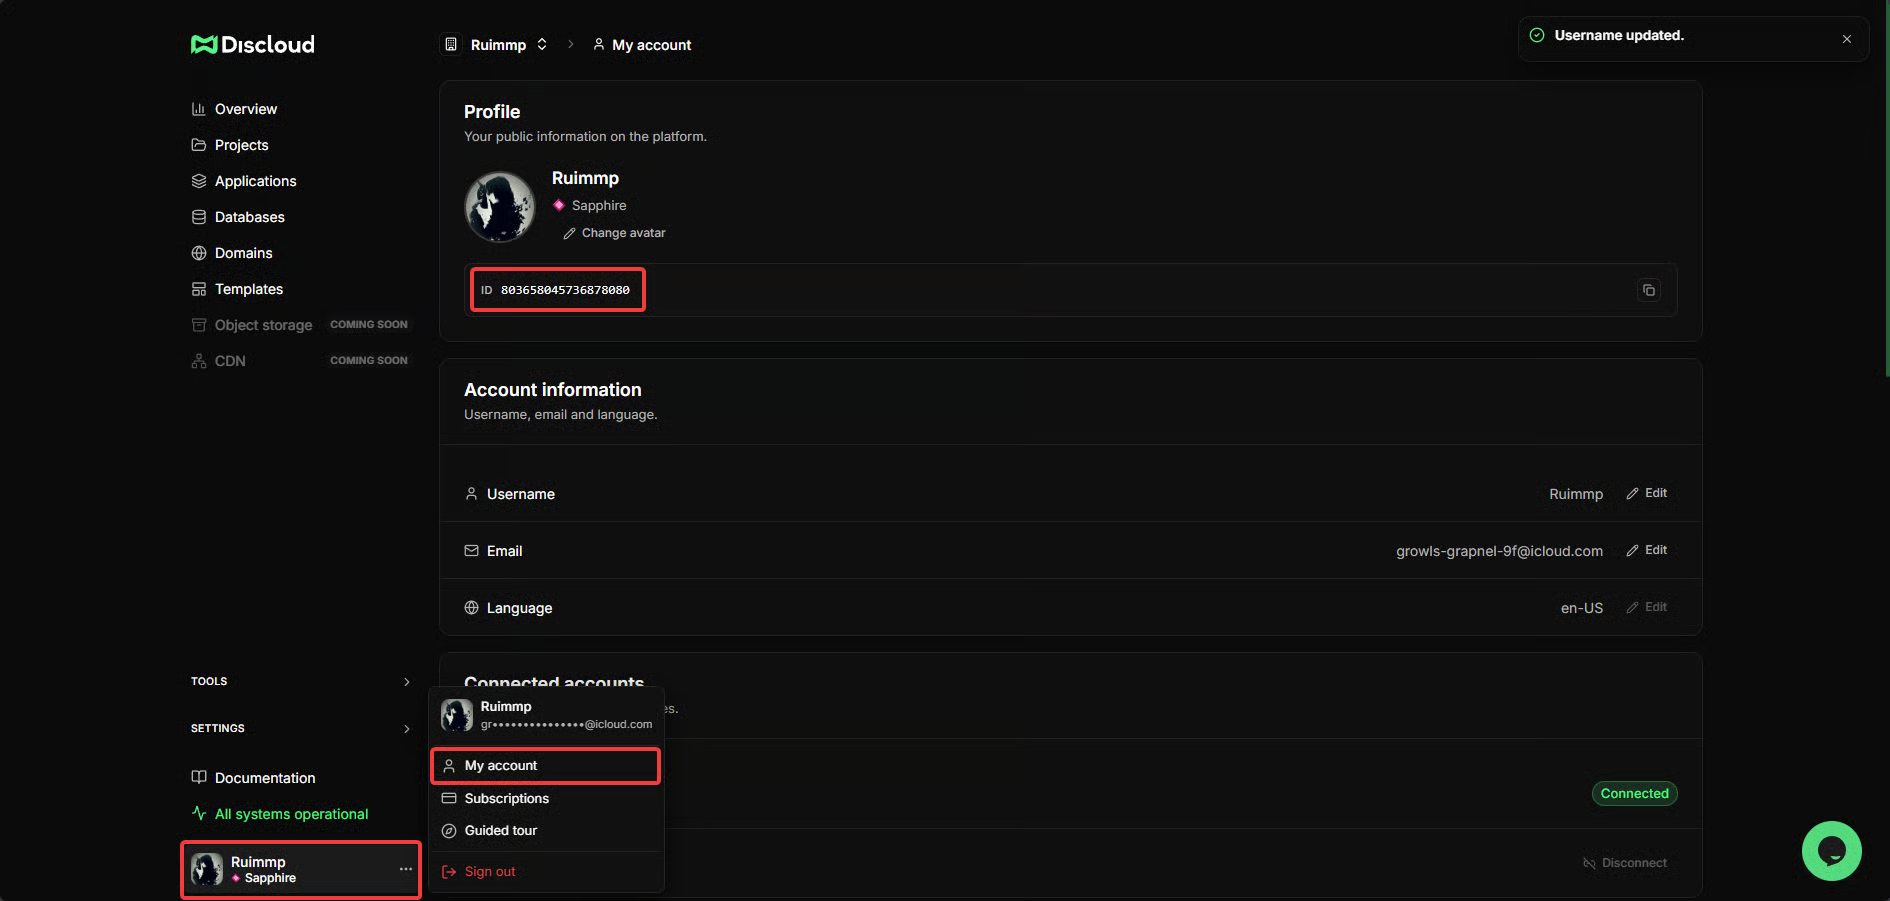
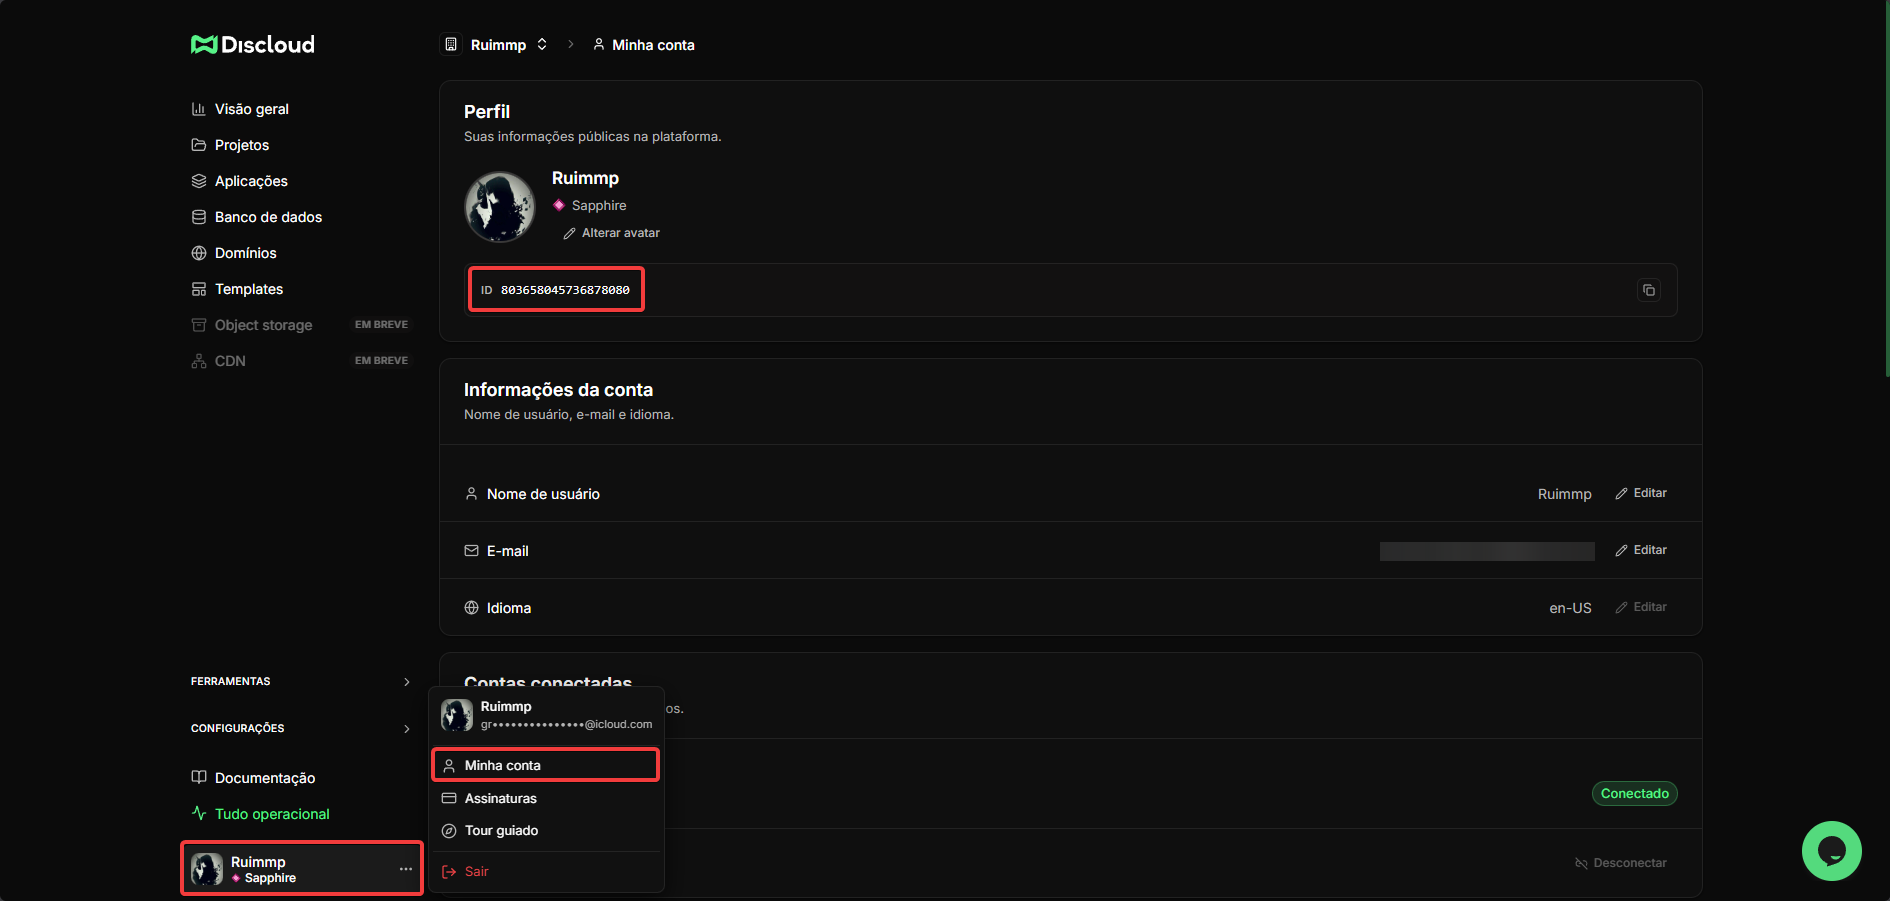
GITBOOK-191: .

diff --git a/faq/general-questions/what-is-the-root-of-the-project.md b/faq/general-questions/what-is-the-root-of-the-project.md
@@ -8,7 +8,7 @@ description: >-
 
 ## 🧾 Visão Geral
 
-A raiz do projeto ("diretório raiz") é a **pasta de nível superior da sua aplicação,** o lugar que você comprime e envia para a Discloud. Ela contém o arquivo de configuração ([`discloud.config`](../../configurations/discloud.config/)), manifesto de dependências (ex. [`package.json`](../../development-environment/supported-languages/javascript/package.json.md), [`requirements.txt`](../../development-environment/supported-languages/python/requirements.txt.md), [`Cargo.toml`](../../development-environment/supported-languages/rust/cargo.toml.md), [`Gemfile`](../../development-environment/supported-languages/ruby/gemfile.md)), opcional [`.env`](.env-file.md), e as pastas com seu código fonte (ex. `src/`).
+A raiz do projeto ("diretório raiz") é a **pasta de nível superior da sua aplicação,** o lugar que você comprime e envia para a Discloud. Ela contém o arquivo de configuração ([`discloud.config`](https://github.com/discloud/docs/blob/portuguese/configurations/discloud.config)), manifesto de dependências (ex. [`package.json`](../../development-environment/supported-languages/javascript/package.json.md), [`requirements.txt`](../../development-environment/supported-languages/python/requirements.txt.md), [`Cargo.toml`](../../development-environment/supported-languages/rust/cargo.toml.md), [`Gemfile`](../../development-environment/supported-languages/ruby/gemfile.md)), opcional [`.env`](.env-file.md), e as pastas com seu código fonte (ex. `src/`).
 
 Se a estrutura estiver errada (por exemplo, você zipa uma pasta que contém outra pasta única que realmente contém os arquivos), a Discloud pode falhar em detectar o arquivo principal ou dependências.
 
@@ -24,9 +24,9 @@ A zona verde representa a **raiz** que você deve comprimir. Amarelo mostra uma 
 
 ### 🚫 Erros Comuns
 
-| Erro                                            | Resultado                                 | Correção                                                                                           |
-| ----------------------------------------------- | ----------------------------------------- | -------------------------------------------------------------------------------------------------- |
-| Compactar a pasta principal em vez da raiz real | Configuração / arquivo principal ausente  | Compacte diretamente a pasta que contém [`discloud.config`](../../configurations/discloud.config/) |
-| Incluir `node_modules`                          | Upload grande; possíveis erros de tamanho | Remova; deixe a Discloud instalar                                                                  |
-| Tokens hardcoded no código                      | Exposição de dados sensíveis              | Use [`.env`](.env-file.md) e variáveis de ambiente                                                 |
-| Múltiplos arquivos de entrada ambíguos          | Falha na inicialização                    | Defina `MAIN` em [`discloud.config`](../../configurations/discloud.config/) explicitamente         |
+| Erro                                            | Resultado                                 | Correção                                                                                                                                     |
+| ----------------------------------------------- | ----------------------------------------- | -------------------------------------------------------------------------------------------------------------------------------------------- |
+| Compactar a pasta principal em vez da raiz real | Configuração / arquivo principal ausente  | Compacte diretamente a pasta que contém [`discloud.config`](https://github.com/discloud/docs/blob/portuguese/configurations/discloud.config) |
+| Incluir `node_modules`                          | Upload grande; possíveis erros de tamanho | Remova; deixe a Discloud instalar                                                                                                            |
+| Tokens hardcoded no código                      | Exposição de dados sensíveis              | Use [`.env`](.env-file.md) e variáveis de ambiente                                                                                           |
+| Múltiplos arquivos de entrada ambíguos          | Falha na inicialização                    | Defina `MAIN` em [`discloud.config`](https://github.com/discloud/docs/blob/portuguese/configurations/discloud.config) explicitamente         |

diff --git a/faq/general-questions/what-is-the-main-file.md b/faq/general-questions/what-is-the-main-file.md
@@ -2,27 +2,27 @@
 description: Saiba o que é o arquivo principal e como identificá-lo em seu projeto.
 ---
 
-# O que é o arquivo principal?
+# Qual é o arquivo principal?
 
 ## 📂 Arquivos Principais Gerais
 
 O **arquivo principal** (main file) é o código fundamental da sua aplicação. É o ponto de entrada que faz seu bot ficar online ou seu site começar a funcionar. Dependendo da linguagem e de como você o nomeou, exemplos comuns incluem:
 
-- `index.js`
-- `bot.js`
-- `main.py`
-- `index.py`
-- `app.js`
+* `index.js`
+* `bot.js`
+* `main.py`
+* `index.py`
+* `app.js`
 
----
+***
 
 ## ⚠ Exceções (Padrões)
 
 Alguns softwares de criação de bots, como o **Discord Bot Maker (DBM)** e o **Discord Bot Controls**, já possuem um arquivo principal padrão configurado, que geralmente é:
 
-- `bot.js`
+* `bot.js`
 
----
+***
 
 ## 🔍 Como eu sei qual é o meu arquivo principal?
 
@@ -32,8 +32,8 @@ O arquivo principal é aquele que você usa para iniciar sua aplicação localme
 {% tab title="JavaScript" %}
 O arquivo principal é o que você usa para iniciar seu bot:
 
-- Ao executar o comando `node ArquivoPrincipal.js`.
-- Geralmente é definido no seu `package.json` sob o campo `"main"`.
+* Ao executar o comando `node ArquivoPrincipal.js`.
+* Geralmente é definido no seu `package.json` sob o campo `"main"`.
 
 ```json
 {
@@ -45,53 +45,52 @@ O arquivo principal é o que você usa para iniciar seu bot:
   }
 }
 ```
-
 {% endtab %}
 
 {% tab title="Python" %}
 O arquivo principal é o que você usa para iniciar seu bot:
 
-- Ao executar o comando `python ArquivoPrincipal.py`.
-- Clicando com o botão direito no arquivo e selecionando **RUN** no PyCharm ou VS Code.
-  {% endtab %}
+* Ao executar o comando `python ArquivoPrincipal.py`.
+* Clicando com o botão direito no arquivo e selecionando **RUN** no PyCharm ou VS Code.
+{% endtab %}
 
 {% tab title="Java" %}
 O arquivo principal é o que você usa para iniciar seu bot:
 
-- Ao executar o comando `java -jar ArquivoPrincipal.jar`.
-- Clicando duas vezes no arquivo `.jar`.
-  {% endtab %}
+* Ao executar o comando `java -jar ArquivoPrincipal.jar`.
+* Clicando duas vezes no arquivo `.jar`.
+{% endtab %}
 
 {% tab title="Ruby" %}
 O arquivo principal é o que você usa para iniciar seu bot:
 
-- Ao executar o comando `ruby ArquivoPrincipal.rb`.
-  {% endtab %}
+* Ao executar o comando `ruby ArquivoPrincipal.rb`.
+{% endtab %}
 
 {% tab title="Go" %}
 O arquivo principal é o que você usa para iniciar seu bot:
 
-- Ao executar o comando `go run ArquivoPrincipal.go`.
-  {% endtab %}
+* Ao executar o comando `go run ArquivoPrincipal.go`.
+{% endtab %}
 
 {% tab title="PHP" %}
 O arquivo principal é o que você usa para iniciar seu bot:
 
-- Ao executar o comando `php ArquivoPrincipal.php`.
-  {% endtab %}
+* Ao executar o comando `php ArquivoPrincipal.php`.
+{% endtab %}
 
 {% tab title="Rust" %}
 Em projetos Rust, o arquivo principal geralmente está localizado em:
 
-- `src/main.rs`
-  {% endtab %}
-  {% endtabs %}
+* `src/main.rs`
+{% endtab %}
+{% endtabs %}
 
----
+***
 
 ## 🛠 Definindo na Discloud
 
-Depois de identificar seu arquivo principal, você deve especificá-lo em seu arquivo [**`discloud.config`**](../../configurations/discloud.config/) usando a propriedade `MAIN`.
+Depois de identificar seu arquivo principal, você deve especificá-lo em seu arquivo [**`discloud.config`**](https://github.com/discloud/docs/blob/portuguese/configurations/discloud.config) usando a propriedade `MAIN`.
 
 ```ini
 MAIN=index.js

diff --git a/how-to-host-using/discord-bot.md b/how-to-host-using/discord-bot.md
@@ -41,7 +41,7 @@ Depois da verificação, terá acesso ao canal [**`#🔌・commands`**](https://
 
 Há **duas maneiras** de fazer o upload de uma aplicação usando o Bot da Discloud:
 
-<table><thead><tr><th width="212">Método</th><th>Melhor Para</th><th>Como Funciona</th></tr></thead><tbody><tr><td><a href="discord-bot.md#configuracao-avancada"><strong>⚙ Configuração Avançada</strong></a></td><td>Usuários que querem uma <strong>upload de um comando</strong> com configurações pré-definidas.</td><td>Configure tudo no arquivo <a href="../configurations/discloud.config/"><code>discloud.config</code></a> e use <code>.upconfig</code>.</td></tr><tr><td><a href="discord-bot.md#configuracao-rapida-guia-passo-a-passo"><strong>⚡ Configuração Rápida (legado)</strong></a></td><td>Usuários que <strong>preferem uma configuração guiada</strong> através dos prompts do bot.</td><td>O bot perguntará os detalhes necessários após executar <code>.up</code>.</td></tr></tbody></table>
+<table><thead><tr><th width="212">Método</th><th>Melhor Para</th><th>Como Funciona</th></tr></thead><tbody><tr><td><a href="discord-bot.md#configuracao-avancada"><strong>⚙ Configuração Avançada</strong></a></td><td>Usuários que querem uma <strong>upload de um comando</strong> com configurações pré-definidas.</td><td>Configure tudo no arquivo <a href="https://github.com/discloud/docs/blob/portuguese/configurations/discloud.config"><code>discloud.config</code></a> e use <code>.upconfig</code>.</td></tr><tr><td><a href="discord-bot.md#configuracao-rapida-guia-passo-a-passo"><strong>⚡ Configuração Rápida (legado)</strong></a></td><td>Usuários que <strong>preferem uma configuração guiada</strong> através dos prompts do bot.</td><td>O bot perguntará os detalhes necessários após executar <code>.up</code>.</td></tr></tbody></table>
 
 {% hint style="warning" %}
 #### **Notas Importantes**
@@ -54,7 +54,7 @@ Há **duas maneiras** de fazer o upload de uma aplicação usando o Bot da Discl
 {% tab title="📝 Configuração Avançada" %}
 {% stepper %}
 {% step %}
-Crie o arquivo [`discloud.config`](../configurations/discloud.config/).
+Crie o arquivo [`discloud.config`](https://github.com/discloud/docs/blob/portuguese/configurations/discloud.config).
 {% endstep %}
 
 {% step %}

diff --git a/how-to-host-using/cli.md b/how-to-host-using/cli.md
@@ -122,7 +122,7 @@ Uma vez instalada e configurada, você pode **fazer o upload da sua aplicação*
 Preparando seu projeto.
 
 * Certifique-se de que seu projeto contenha todos os arquivos necessários:
-  * [**`discloud.config`**](../configurations/discloud.config/) (arquivo de configuração).
+  * [**`discloud.config`**](https://github.com/discloud/docs/blob/portuguese/configurations/discloud.config) (arquivo de configuração).
   * **Dependências necessárias** para sua linguagem de programação (ex.: [`package.json`](../development-environment/supported-languages/javascript/package.json.md) para [Node.js](../development-environment/local-environment/nodejs.md), [`requirements.txt`](../development-environment/supported-languages/python/requirements.txt.md) para [Python](../development-environment/local-environment/python.md)).
 * **Verifique o** [**Guia de Linguagens**](../development-environment/supported-languages/) para garantir que seu projeto esteja estruturado corretamente.
 {% endstep %}
@@ -162,7 +162,7 @@ discloud init
 ```
 
 * Este comando solicita que você insira **detalhes básicos de configuração** (ex.: nome, arquivo principal, RAM, etc.).
-* Em seguida, **gera o arquivo** [**`discloud.config`**](../configurations/discloud.config/) **para você**, facilitando o upload.
+* Em seguida, **gera o arquivo** [**`discloud.config`**](https://github.com/discloud/docs/blob/portuguese/configurations/discloud.config) **para você**, facilitando o upload.
 
 ### 📂 **Usando `.discloudignore` para Excluir Arquivos**
 

diff --git a/how-to-host/frameworks/README.md b/how-to-host/frameworks/README.md
@@ -39,7 +39,7 @@ Não importa qual framework você use:
 
 * **Porta 8080** – Seu app escuta aqui. É assim que o tráfego é roteado.
 * **Subdomínio** – [Crie um seguindo este guia](../../faq/general-questions/how-to-create-a-subdomain.md).
-* **`discloud.config`** – Fica na raiz do projeto. [Veja o guia de config](../../configurations/discloud.config/).
+* **`discloud.config`** – Fica na raiz do projeto. [Veja o guia de config](https://github.com/discloud/docs/blob/portuguese/configurations/discloud.config).
 * **Arquivo de dependências** – `package.json`, `requirements.txt`, o que seu framework usar.
 
 ***
@@ -47,6 +47,6 @@ Não importa qual framework você use:
 ## 🔗 Links úteis
 
 * 📖 [Ambiente de desenvolvimento](../../development-environment/supported-languages/) – Configure Node, Python, etc. localmente
-* ⚙ [discloud.config](../../configurations/discloud.config/) – Todas as opções de config
+* ⚙ [discloud.config](https://github.com/discloud/docs/blob/portuguese/configurations/discloud.config) – Todas as opções de config
 * 🚀 [Como fazer deploy](../../how-to-host-using/dashboard.md) – Dashboard, Bot, CLI ou VSCode
 * 🌐 [Domínios customizados](../../api-and-integrations/custom-domain.md) – Use seu próprio domínio

diff --git a/faq/general-questions/how-can-i-get-my-discord-bot-id.md b/faq/general-questions/how-can-i-get-my-discord-bot-id.md
@@ -46,4 +46,4 @@ O **ID da Aplicação** é uma **informação pública**, não há problema em c
 
 Este ID é especificamente necessário ao usar o método de **Configuração Rápida** através do [Bot da Discloud](../../how-to-host-using/discord-bot.md#configuracao-rapida-guia-passo-a-passo), durante o fluxo guiado, o bot solicitará que você insira o ID da Aplicação.
 
-Se você estiver usando a **Configuração Avançada** (com um arquivo [`discloud.config`](../../configurations/discloud.config/)), não precisa fornecer este ID, a Discloud lida com a configuração automaticamente.
+Se você estiver usando a **Configuração Avançada** (com um arquivo [`discloud.config`](https://github.com/discloud/docs/blob/portuguese/configurations/discloud.config)), não precisa fornecer este ID, a Discloud lida com a configuração automaticamente.

diff --git a/development-environment/supported-languages/javascript/README.md b/development-environment/supported-languages/javascript/README.md
@@ -29,7 +29,7 @@ Certifique-se de que os seguintes arquivos e diretórios **não** sejam incluíd
 <summary>📦 Sobre a pasta dist (apenas TYPE=site)</summary>
 
 {% hint style="info" %}
-Para apps `TYPE=site`, **`dist/` é reservada** para a saída do `BUILD`. Se você define `BUILD=...` no [`discloud.config`](../../../configurations/discloud.config), nós geramos a pasta `dist/` pra você. **Não compacte `dist/`** ou envie arquivos para lá.
+Para apps `TYPE=site`, **`dist/` é reservada** para a saída do `BUILD`. Se você define `BUILD=...` no [`discloud.config`](https://github.com/discloud/docs/blob/portuguese/configurations/discloud.config), nós geramos a pasta `dist/` pra você. **Não compacte `dist/`** ou envie arquivos para lá.
 {% endhint %}
 
 **⚙ Build automático**

diff --git a/configurations/puppeteer.md b/configurations/puppeteer.md
@@ -20,7 +20,7 @@ Para usar **Puppeteer** na Discloud, é recomendado um mínimo de **512 MB de RA
 
 ## 📦 **Adicionando Puppeteer**
 
-O Puppeteer requer dependências adicionais do sistema. Você deve adicionar **`puppeteer`** ao campo [`APT`](discloud.config/apt.md) no seu arquivo [**`discloud.config`**](discloud.config/).
+O Puppeteer requer dependências adicionais do sistema. Você deve adicionar **`puppeteer`** ao campo [`APT`](discloud.config/apt.md) no seu arquivo [**`discloud.config`**](https://github.com/discloud/docs/blob/portuguese/configurations/discloud.config).
 
 <pre class="language-ini" data-title="discloud.config"><code class="lang-ini"><a data-footnote-ref href="#user-content-fn-1"># ...</a>
 APT=tools, puppeteer

diff --git a/how-to-host-using/visual-studio-code.md b/how-to-host-using/visual-studio-code.md
@@ -56,7 +56,7 @@ Com a **Extensão VSCode**, você pode fazer o upload do seu app em apenas algun
 Preparando seu projeto.
 
 * Certifique-se de que seu projeto contenha todos os arquivos necessários:
-  * [**`discloud.config`**](../configurations/discloud.config/) (arquivo de configuração).
+  * [**`discloud.config`**](https://github.com/discloud/docs/blob/portuguese/configurations/discloud.config) (arquivo de configuração).
   * **Dependências** necessárias para sua linguagem de programação (ex.: `package.json` para Node.js, `requirements.txt` para Python).
 * **Verifique o** [**Guia de Linguagens**](../development-environment/supported-languages/) para garantir que seu projeto esteja estruturado corretamente.
 {% endstep %}

diff --git a/development-environment/supported-languages/rust/cargo.toml.md b/development-environment/supported-languages/rust/cargo.toml.md
@@ -115,7 +115,7 @@ Requer toolchain nightly + bind na porta 8080.
 {% endtabs %}
 
 {% hint style="info" %}
-Precisa de dependências no nível do SO (ex.: `openssl`, `ffmpeg`)? Adicione-as sob `APT=` no [`discloud.config`](../../../configurations/discloud.config/). Veja [a lista de pacotes APT](../../../configurations/discloud.config/apt.md) para sintaxe e exemplos.
+Precisa de dependências no nível do SO (ex.: `openssl`, `ffmpeg`)? Adicione-as sob `APT=` no [`discloud.config`](https://github.com/discloud/docs/blob/portuguese/configurations/discloud.config). Veja [a lista de pacotes APT](../../../configurations/discloud.config/apt.md) para sintaxe e exemplos.
 {% endhint %}
 
 ***

diff --git a/how-to-host/frameworks/nestjs.md b/how-to-host/frameworks/nestjs.md
@@ -155,8 +155,8 @@ ID=meu-nestjs-app
 
 Para informações detalhadas sobre cada parâmetro de configuração e todas as opções disponíveis, consulte o guia completo:
 
-{% content-ref url="../../configurations/discloud.config/" %}
-[discloud.config](../../configurations/discloud.config/)
+{% content-ref url="https://github.com/discloud/docs/blob/portuguese/configurations/discloud.config" %}
+[https://github.com/discloud/docs/blob/portuguese/configurations/discloud.config](https://github.com/discloud/docs/blob/portuguese/configurations/discloud.config)
 {% endcontent-ref %}
 
 {% hint style="warning" %}

diff --git a/development-environment/supported-languages/java.md b/development-environment/supported-languages/java.md
@@ -58,7 +58,7 @@ Renomeie seu arquivo JAR para um nome simples como `app.jar` para evitar problem
 
 ## 📝 **Configurando o Arquivo Principal**
 
-O parâmetro `MAIN` no seu arquivo [`discloud.config`](../../configurations/discloud.config/) deve apontar para o seu arquivo JAR executável. Por exemplo:
+O parâmetro `MAIN` no seu arquivo [`discloud.config`](https://github.com/discloud/docs/blob/portuguese/configurations/discloud.config) deve apontar para o seu arquivo JAR executável. Por exemplo:
 
 ```ini
 MAIN=app.jar
